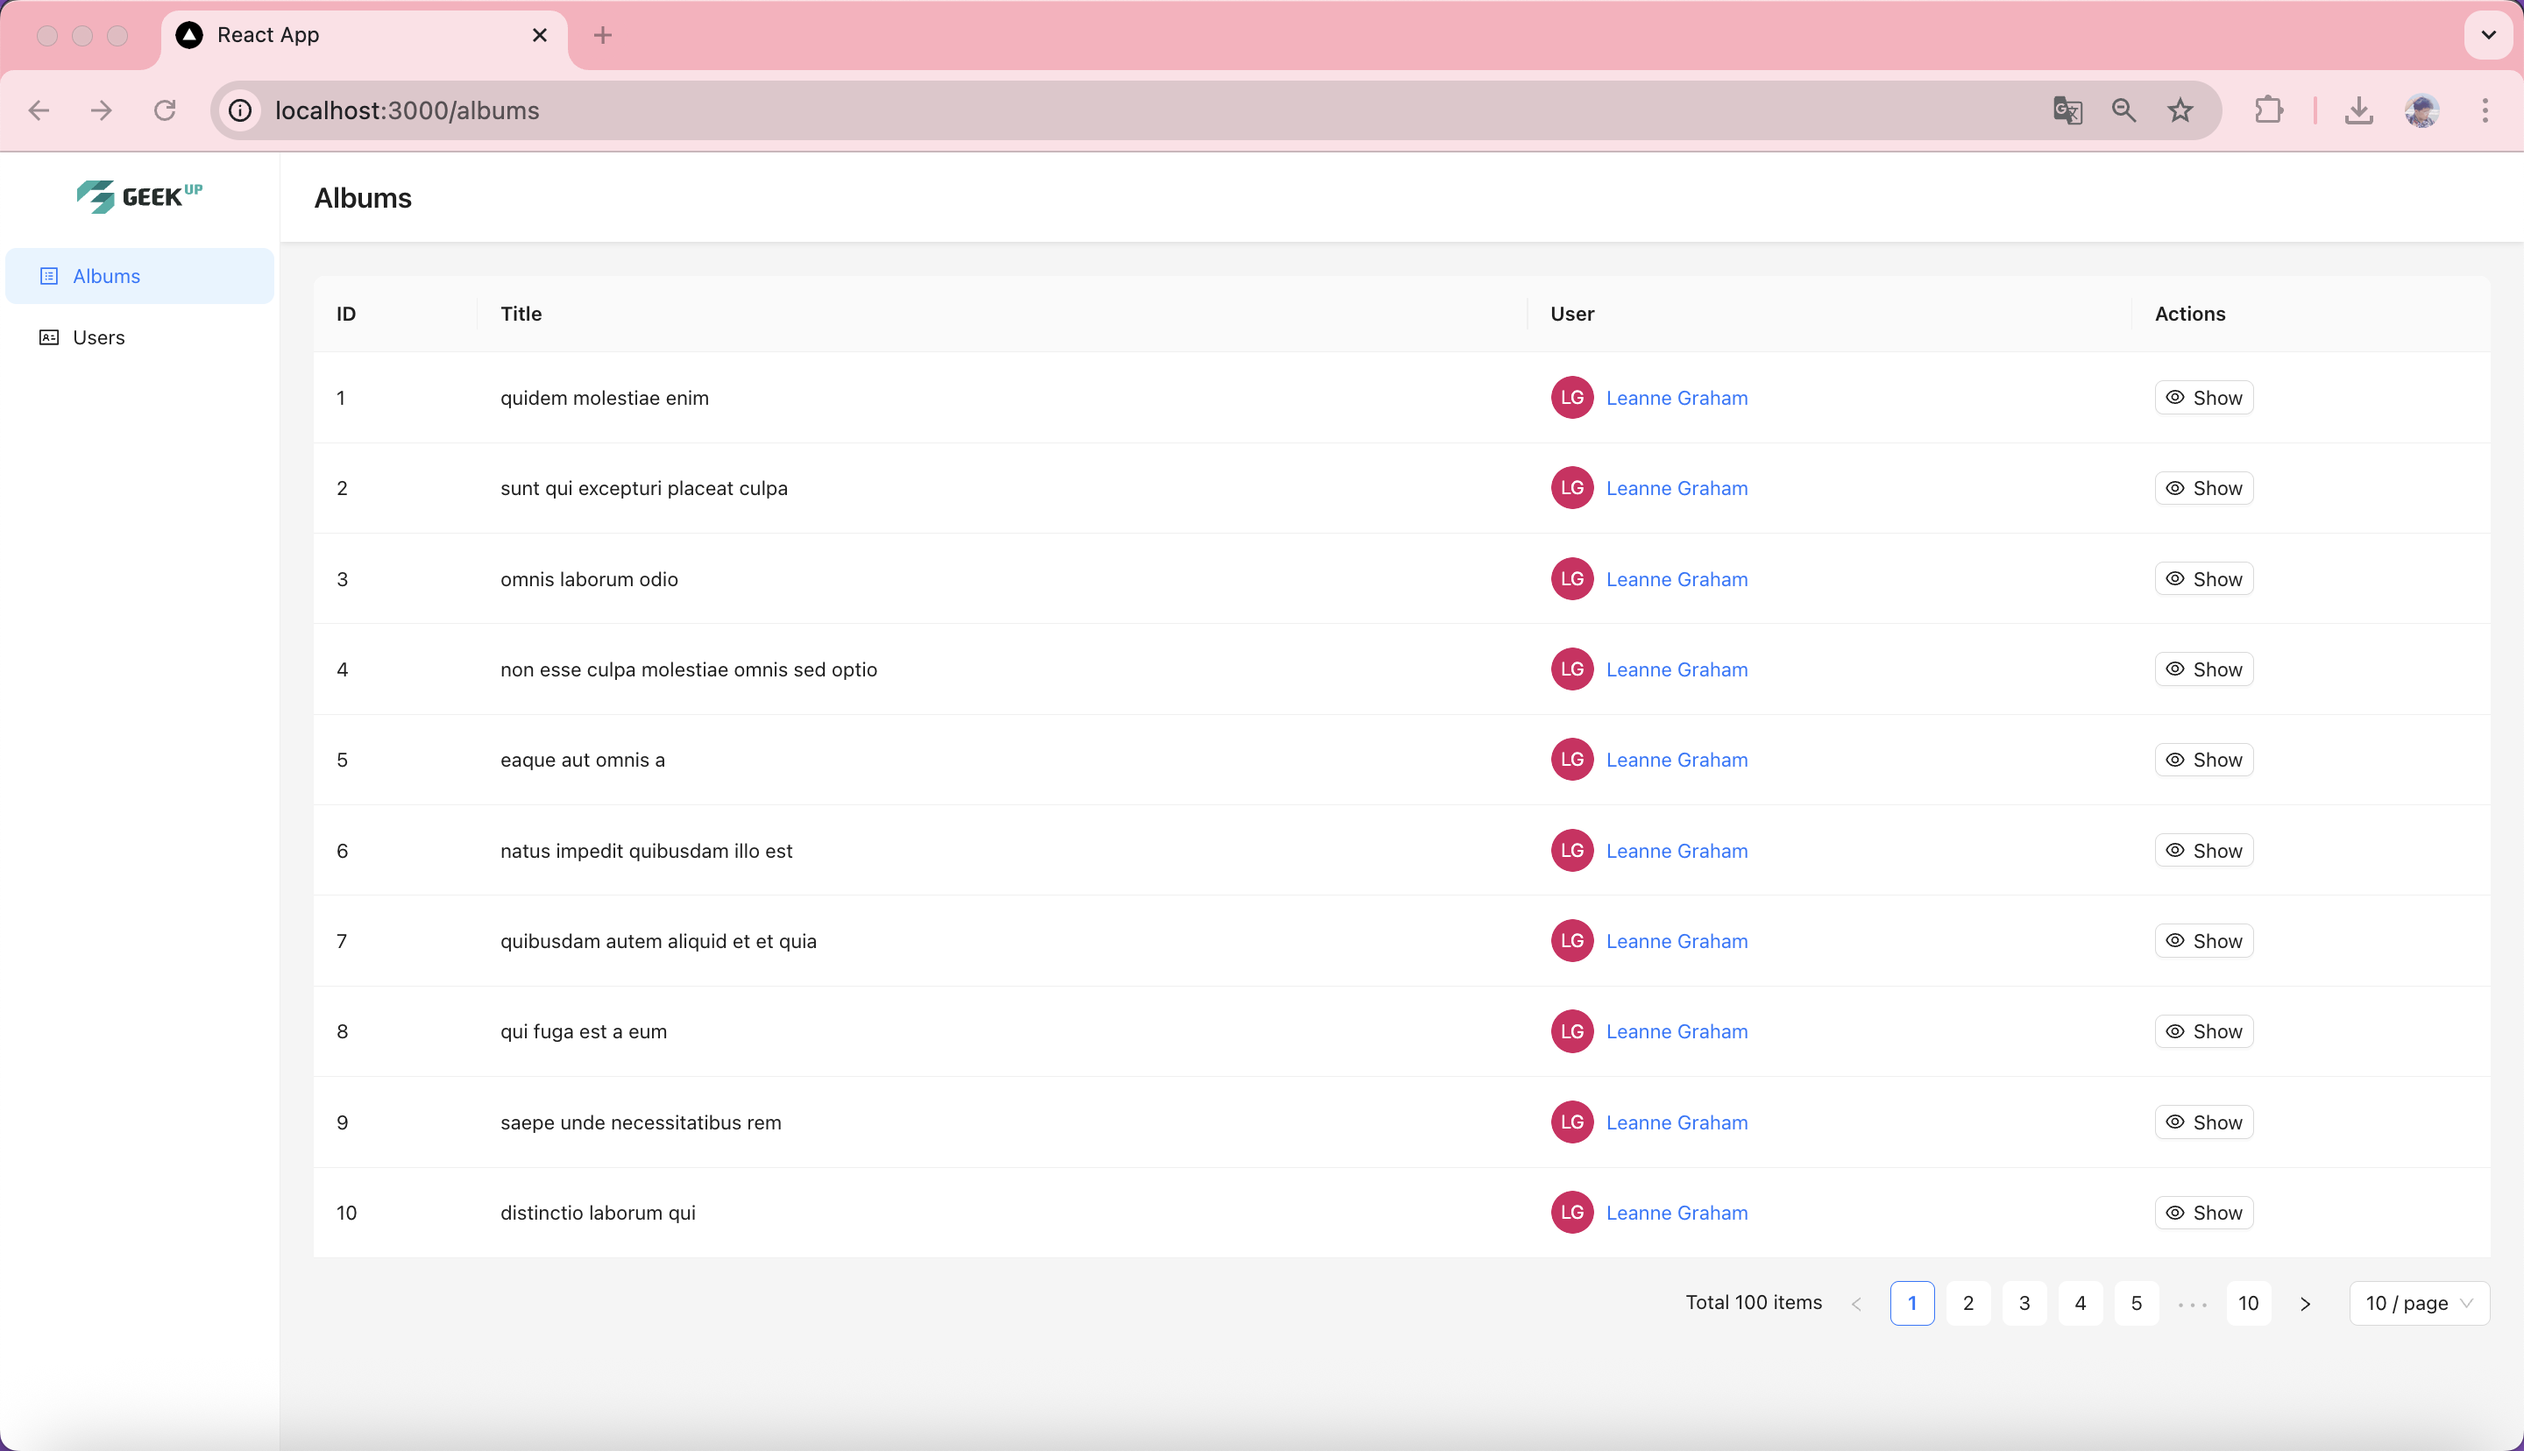
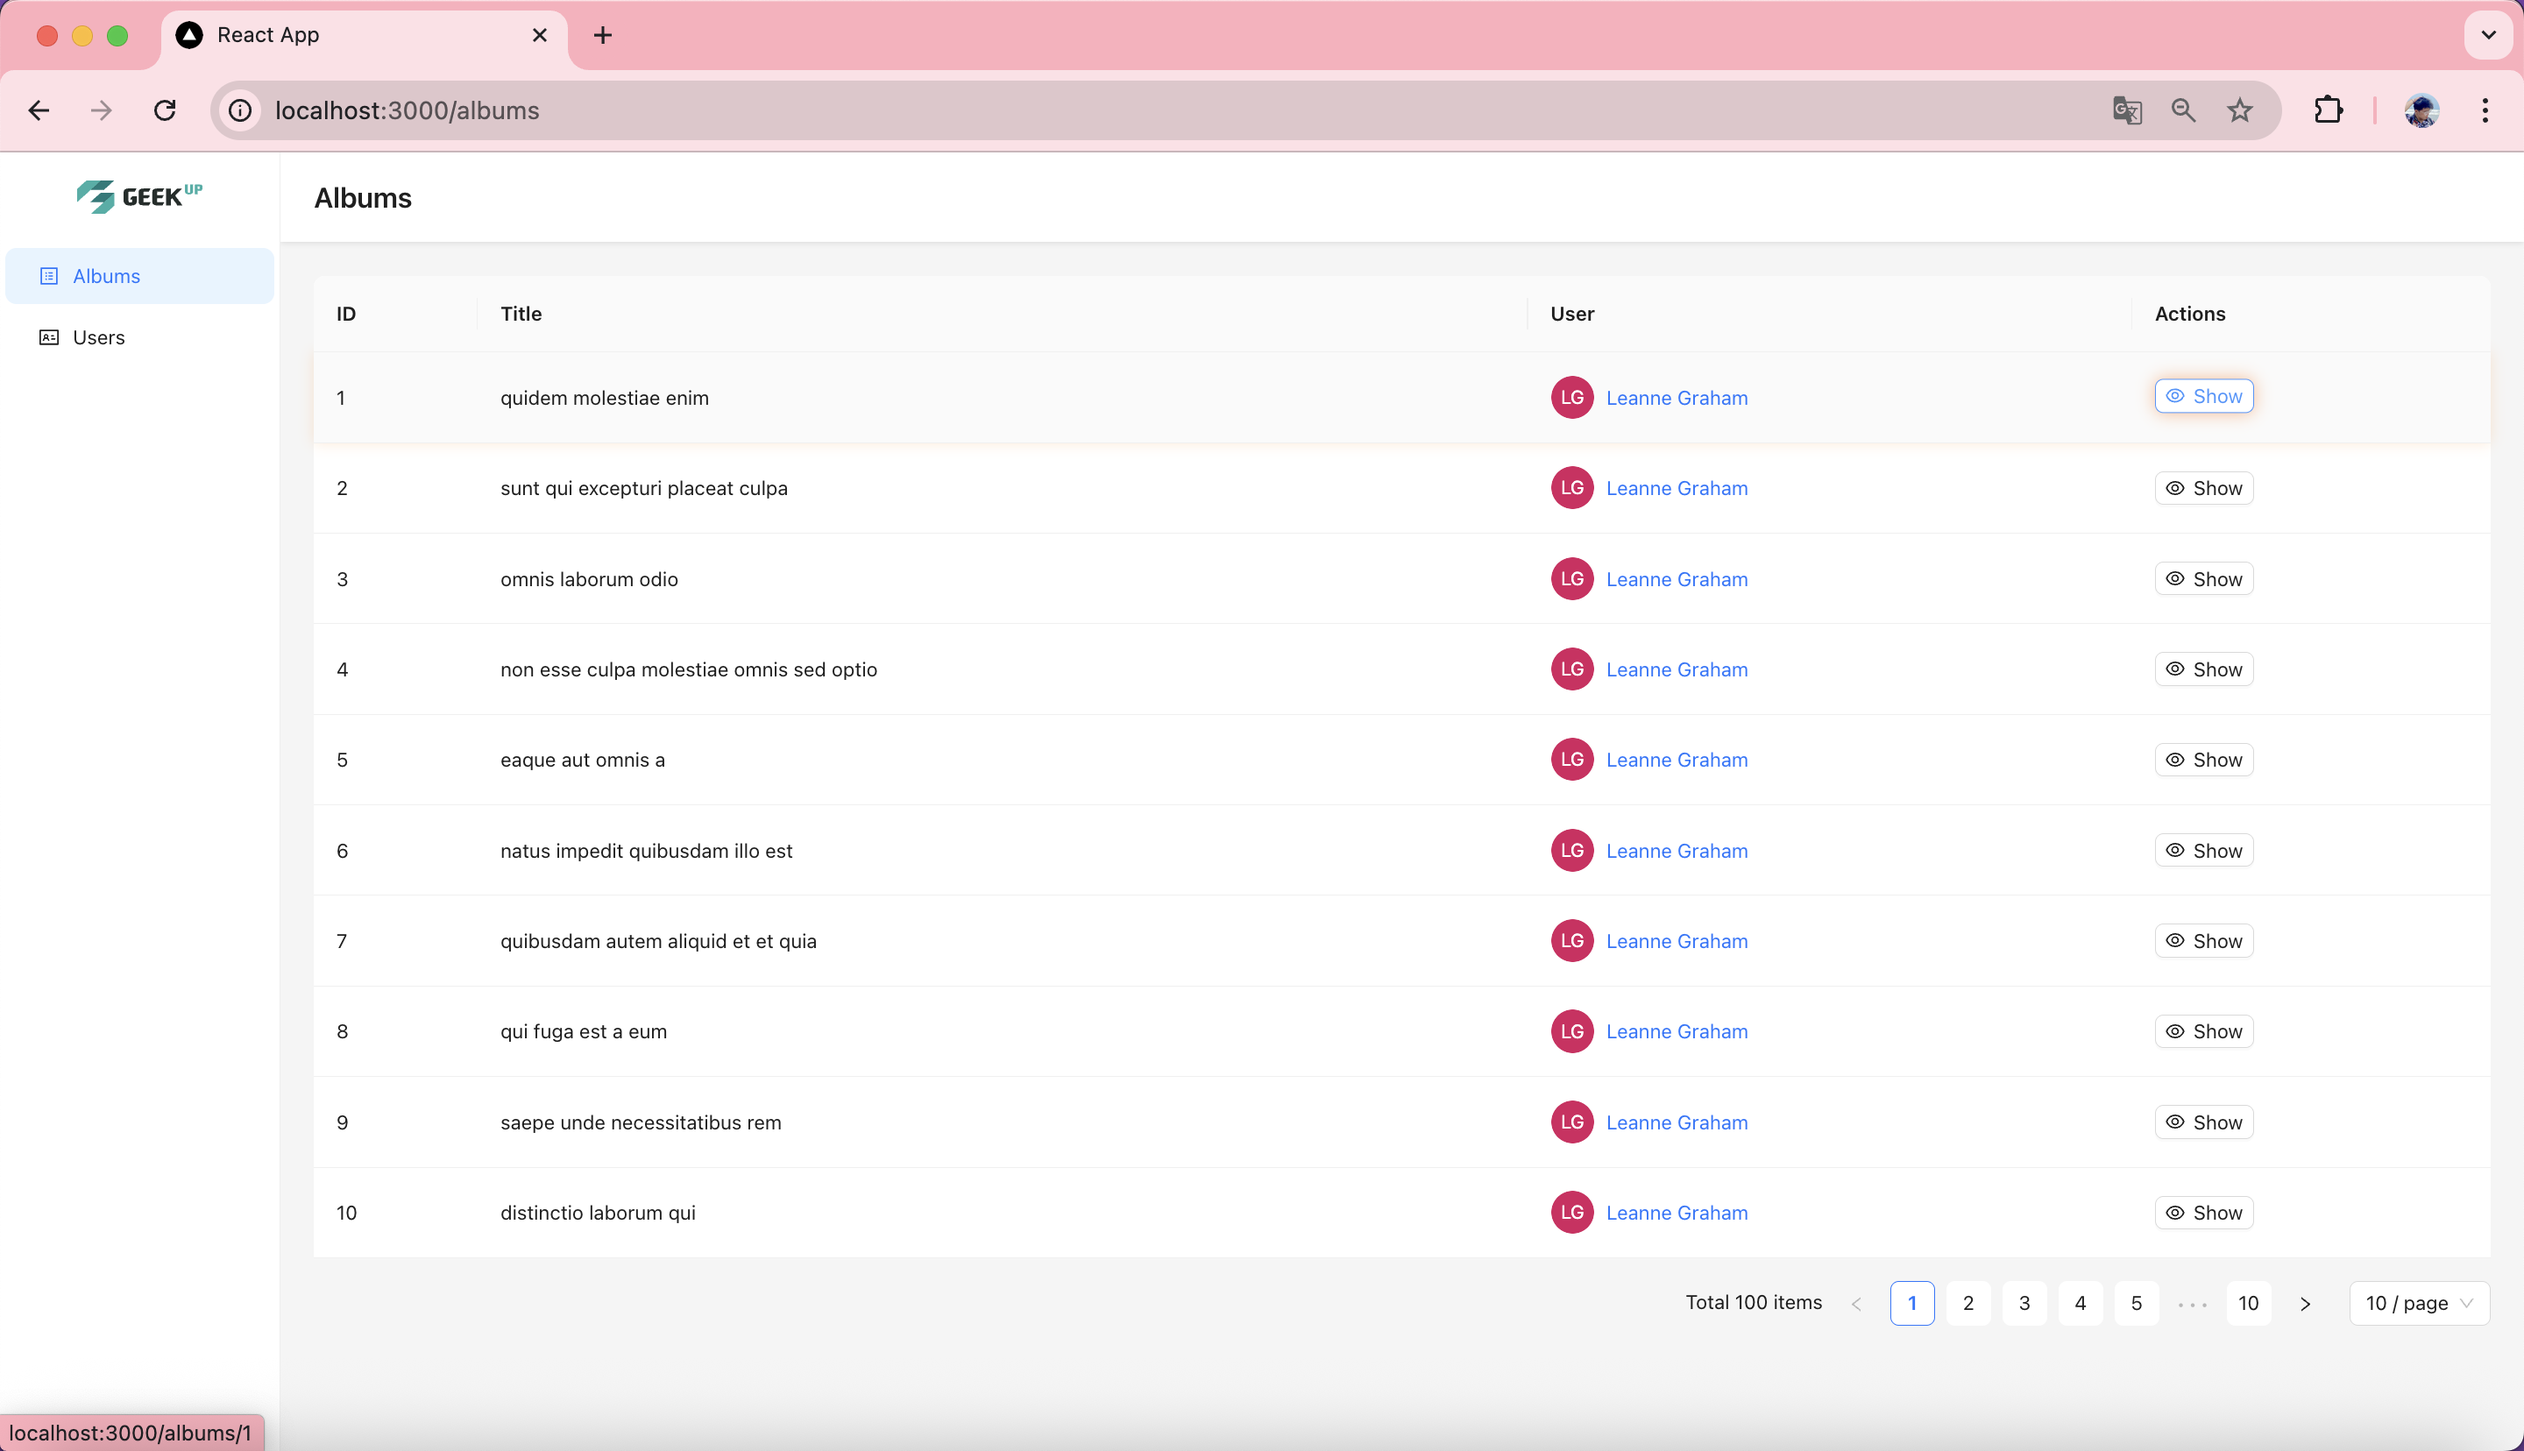
Technical Assessment Gl Summer 2025

diff --git a/src/pages/style/UserList.css b/src/pages/style/UserList.css
@@ -13,23 +13,26 @@
   }
 }
 
+/* Hover hàng trong bảng với tone cam */
 .ant-table-tbody > tr:hover {
-  background-color: #f9f9ff;
-  box-shadow: 0 0 10px rgba(0, 180, 255, 0.1);
+  background-color: #fff5e6; /* cam nhạt */
+  box-shadow: 0 0 10px rgba(255, 140, 0, 0.1); /* ánh cam nhẹ */
   transition: box-shadow 0.3s ease, background-color 0.3s ease;
 }
 
+/* Avatar glow cam */
 .glow-avatar:hover {
-  box-shadow: 0 0 10px rgba(0, 200, 255, 0.5);
+  box-shadow: 0 0 10px rgba(255, 160, 0, 0.5); /* cam sáng */
   transition: box-shadow 0.3s ease;
   border-radius: 50%;
 }
 
+/* Nút glow cam */
 .glow-button {
   transition: box-shadow 0.3s ease, transform 0.2s ease;
 }
 
 .glow-button:hover {
-  box-shadow: 0 0 12px rgba(0, 123, 255, 0.5);
+  box-shadow: 0 0 12px rgba(255, 115, 0, 0.5); /* cam đậm */
   transform: translateY(-1px);
 }

diff --git a/src/pages/style/UserDetail.css b/src/pages/style/UserDetail.css
@@ -13,23 +13,26 @@
   }
 }
 
+/* Avatar glow cam */
 .glow-avatar:hover {
-  box-shadow: 0 0 10px rgba(0, 200, 255, 0.6);
+  box-shadow: 0 0 10px rgba(255, 160, 0, 0.6); /* cam sáng */
   transition: box-shadow 0.3s ease;
   border-radius: 50%;
 }
 
+/* Nút glow cam */
 .glow-button {
   transition: box-shadow 0.3s ease, transform 0.2s ease;
 }
 
 .glow-button:hover {
-  box-shadow: 0 0 12px rgba(0, 123, 255, 0.5);
+  box-shadow: 0 0 12px rgba(255, 115, 0, 0.5); /* cam rực hơn */
   transform: translateY(-1px);
 }
 
+/* Hover bảng tone cam */
 .ant-table-tbody > tr:hover {
-  background-color: #f9f9ff;
-  box-shadow: 0 0 10px rgba(0, 180, 255, 0.1);
+  background-color: #fff5e6; /* nền cam nhạt */
+  box-shadow: 0 0 10px rgba(255, 140, 0, 0.1); /* cam sáng */
   transition: box-shadow 0.3s ease, background-color 0.3s ease;
 }

diff --git a/src/pages/style/AlbumList.css b/src/pages/style/AlbumList.css
@@ -14,8 +14,8 @@
 }
 
 .glow-table .ant-table-tbody > tr:hover {
-  background-color: #f9f9ff;
-  box-shadow: 0 0 10px rgba(0, 180, 255, 0.2);
+  background-color: #fff7f0; /* cam nhạt */
+  box-shadow: 0 0 10px rgba(255, 140, 0, 0.2); /* glow cam nhẹ */
   transition: box-shadow 0.3s ease, background-color 0.3s ease;
 }
 
@@ -25,12 +25,12 @@
 }
 
 .glow-button:hover {
-  box-shadow: 0 0 12px rgba(0, 123, 255, 0.6);
+  box-shadow: 0 0 12px rgba(255, 115, 0, 0.6); /* glow cam đậm */
   transform: translateY(-1px);
 }
 
 .glow-avatar:hover {
-  box-shadow: 0 0 10px rgba(0, 200, 255, 0.5);
+  box-shadow: 0 0 10px rgba(255, 160, 0, 0.5); /* glow cam nhẹ */
   transition: box-shadow 0.3s ease;
   border-radius: 50%;
 }

diff --git a/src/pages/style/AlbumDetail.css b/src/pages/style/AlbumDetail.css
@@ -20,8 +20,8 @@
 }
 
 .photo-grid-container.glow {
-  box-shadow: 0 0 25px rgba(0, 200, 255, 0.5);
-  background-color: rgba(245, 250, 255, 0.6);
+  box-shadow: 0 0 25px rgba(255, 165, 0, 0.5); /* Cam nhẹ */
+  background-color: rgba(255, 245, 230, 0.6); /* Cam nhạt nền */
   border-radius: 8px;
 }
 
